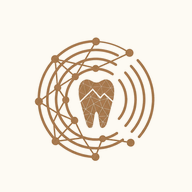
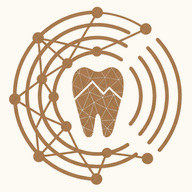
Add files via upload

diff --git a/sw.js b/sw.js
@@ -22,7 +22,7 @@
    Bump CACHE_VERSION whenever the shell changes. The old cache is deleted on
    activate, so nothing accumulates on the phone.
    ====================================================================== */
-const CACHE_VERSION = 'echo-nexus-v1';
+const CACHE_VERSION = 'echo-nexus-v2';   // v2: icons redrawn at full size
 
 const SHELL = [
   './',
@@ -30,6 +30,7 @@ const SHELL = [
   './manifest.json',
   './icon-192.png',
   './icon-512.png',
+  './icon-maskable-192.png',
   './icon-maskable-512.png'
 ];
 
